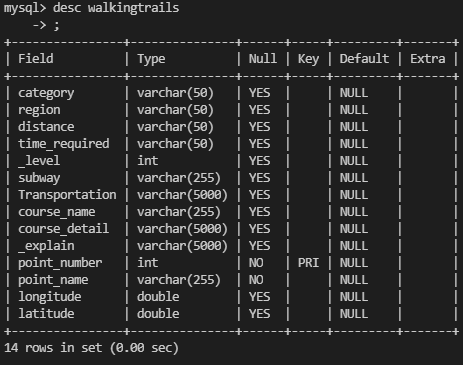
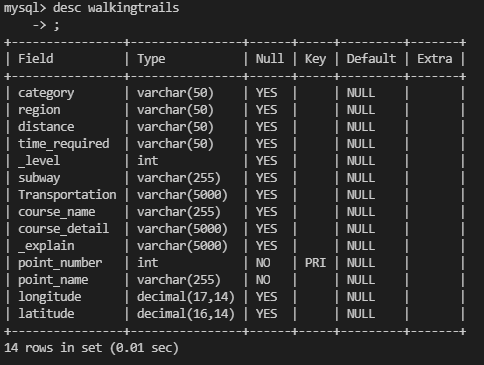
Fix long,lat type

diff --git a/WalkingTogether_v1/maps/models.py b/WalkingTogether_v1/maps/models.py
@@ -14,7 +14,7 @@ class WarlkingTrails(models.Model):
     _explain = models.CharField(max_length=5000,verbose_name='포인트설명')
     point_number = models.IntegerField(verbose_name='포인트순번')
     point_name = models.CharField(max_length=255,verbose_name='포인트명칭')
-    longitude = models.FloatField(verbose_name='경도')
-    latitude  = models.FloatField(verbose_name='위도')
+    longitude = models.DecimalField(verbose_name='경도')
+    latitude  = models.DecimalField(verbose_name='위도')
     class Meta:
         db_table = 'Walkingtrails'
